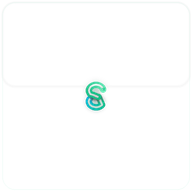
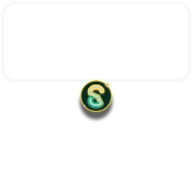
Update 18

Changed region(s): [[0.4062, 0.4062, 0.5938, 0.6562]]

diff --git a/src/components/Logo.jsx b/src/components/Logo.jsx
@@ -13,7 +13,7 @@ export default function Logo({ size = "md", className = "", onClick }) {
       whileHover={{ scale: 1.08 }}
       whileTap={{ scale: 0.92 }}
       onClick={onClick}
-      className={`${containerClasses[size] || "w-10 h-10 rounded-2xl"} shrink-0 relative overflow-hidden shadow-xl shadow-emerald-500/30 group ${onClick ? 'cursor-pointer' : ''} ${className}`}
+      className={`${containerClasses[size] || "w-10 h-10 rounded-2xl"} shrink-0 relative overflow-hidden shadow-xl shadow-amber-500/15 group ${onClick ? 'cursor-pointer' : ''} ${className}`}
       title={onClick ? "Click to refresh" : "Sanjeewa Finance"}
     >
       <svg
@@ -23,60 +23,45 @@ export default function Logo({ size = "md", className = "", onClick }) {
         className="w-full h-full object-cover select-none pointer-events-none transition-transform duration-300 group-hover:scale-105"
       >
         <defs>
-          {/* Background Luxury Dark Emerald & Obsidian Gradient */}
-          <radialGradient id="pro-bg" cx="50%" cy="20%" r="90%">
+          {/* Background luxury obsidian gradient */}
+          <radialGradient id="lux-bg" cx="50%" cy="20%" r="85%">
             <stop offset="0%" stopColor="#064e3b" />
-            <stop offset="45%" stopColor="#022c22" />
-            <stop offset="85%" stopColor="#030c0a" />
-            <stop offset="100%" stopColor="#010605" />
+            <stop offset="50%" stopColor="#022c22" />
+            <stop offset="100%" stopColor="#020806" />
           </radialGradient>
 
-          {/* Outer Bevel Glow */}
-          <linearGradient id="pro-border" x1="0%" y1="0%" x2="100%" y2="100%">
-            <stop offset="0%" stopColor="#34d399" stopOpacity="0.8" />
-            <stop offset="35%" stopColor="#10b981" stopOpacity="0.4" />
-            <stop offset="70%" stopColor="#047857" stopOpacity="0.2" />
-            <stop offset="100%" stopColor="#06b6d4" stopOpacity="0.6" />
+          {/* 24K Gold outer metallic border */}
+          <linearGradient id="lux-gold" x1="0%" y1="0%" x2="100%" y2="100%">
+            <stop offset="0%" stopColor="#fef08a" />
+            <stop offset="35%" stopColor="#f59e0b" />
+            <stop offset="70%" stopColor="#d97706" />
+            <stop offset="100%" stopColor="#fef08a" />
           </linearGradient>
 
-          {/* Top Rim Specular Studio Light */}
-          <linearGradient id="pro-specular" x1="0%" y1="0%" x2="0%" y2="100%">
-            <stop offset="0%" stopColor="#ffffff" stopOpacity="0.35" />
-            <stop offset="50%" stopColor="#ffffff" stopOpacity="0.05" />
-            <stop offset="100%" stopColor="#ffffff" stopOpacity="0" />
-          </linearGradient>
+          {/* Coin face gradient */}
+          <radialGradient id="coin-face" cx="50%" cy="30%" r="70%">
+            <stop offset="0%" stopColor="#064e3b" />
+            <stop offset="65%" stopColor="#022c22" />
+            <stop offset="100%" stopColor="#01140e" />
+          </radialGradient>
 
-          {/* Upper Ribbon Gradient (Mint to Vivid Emerald) */}
-          <linearGradient id="ribbon-top" x1="0%" y1="0%" x2="100%" y2="100%">
-            <stop offset="0%" stopColor="#6ee7b7" />
-            <stop offset="40%" stopColor="#34d399" />
-            <stop offset="80%" stopColor="#10b981" />
+          {/* S Monogram Gold & Emerald gradient */}
+          <linearGradient id="s-lux-grad" x1="0%" y1="0%" x2="100%" y2="100%">
+            <stop offset="0%" stopColor="#fde047" />
+            <stop offset="35%" stopColor="#34d399" />
+            <stop offset="70%" stopColor="#10b981" />
             <stop offset="100%" stopColor="#059669" />
           </linearGradient>
 
-          {/* Lower Ribbon Gradient (Emerald to Electric Cyan) */}
-          <linearGradient id="ribbon-bot" x1="0%" y1="0%" x2="100%" y2="100%">
-            <stop offset="0%" stopColor="#10b981" />
-            <stop offset="50%" stopColor="#14b8a6" />
-            <stop offset="100%" stopColor="#06b6d4" />
+          {/* Specular highlight */}
+          <linearGradient id="lux-spec" x1="0%" y1="0%" x2="0%" y2="100%">
+            <stop offset="0%" stopColor="#ffffff" stopOpacity="0.4" />
+            <stop offset="100%" stopColor="#ffffff" stopOpacity="0" />
           </linearGradient>
 
-          {/* 3D Ribbon Shadow (Ambient Occlusion) */}
-          <linearGradient id="ribbon-shadow" x1="0%" y1="0%" x2="100%" y2="100%">
-            <stop offset="0%" stopColor="#011f18" stopOpacity="0.85" />
-            <stop offset="100%" stopColor="#011f18" stopOpacity="0" />
-          </linearGradient>
-
-          {/* Golden/Mint Shimmer Accent */}
-          <linearGradient id="gold-shimmer" x1="0%" y1="100%" x2="100%" y2="0%">
-            <stop offset="0%" stopColor="#10b981" />
-            <stop offset="50%" stopColor="#6ee7b7" />
-            <stop offset="100%" stopColor="#ffffff" />
-          </linearGradient>
-
-          {/* Neon Glow Filter */}
-          <filter id="pro-glow" x="-20%" y="-20%" width="140%" height="140%">
-            <feGaussianBlur stdDeviation="5" result="blur" />
+          {/* Glow Filter */}
+          <filter id="gold-glow" x="-20%" y="-20%" width="140%" height="140%">
+            <feGaussianBlur stdDeviation="3.5" result="blur" />
             <feMerge>
               <feMergeNode in="blur" />
               <feMergeNode in="SourceGraphic" />
@@ -84,75 +69,60 @@ export default function Logo({ size = "md", className = "", onClick }) {
           </filter>
         </defs>
 
-        {/* 1. Outer 3D Squircle Base */}
-        <rect width="120" height="120" rx="34" fill="url(#pro-bg)" />
-        <rect x="2" y="2" width="116" height="116" rx="32" stroke="url(#pro-border)" strokeWidth="2.5" />
-        <rect x="4" y="4" width="112" height="56" rx="30" fill="url(#pro-specular)" />
+        {/* 1. Luxury Squircle Outer Container */}
+        <rect width="120" height="120" rx="34" fill="url(#lux-bg)" />
+        <rect x="2.5" y="2.5" width="115" height="115" rx="31.5" stroke="url(#lux-gold)" strokeWidth="2.5" strokeOpacity="0.8" />
+        <rect x="4.5" y="4.5" width="111" height="55" rx="29.5" fill="url(#lux-spec)" />
 
-        {/* Ambient Glow behind S */}
-        <g filter="url(#pro-glow)" opacity="0.6">
-          <path
-            d="M78 36 C78 25 68 20 54 20 C38 20 28 28 28 40 C28 53 44 56 58 59 C72 62 80 67 80 78 C80 91 68 98 52 98 C36 98 26 90 26 80"
-            stroke="#10b981"
-            strokeWidth="14"
-            strokeLinecap="round"
-            strokeLinejoin="round"
-          />
-        </g>
+        {/* 2. 3D Minted Medallion in Center */}
+        {/* Medallion Gold Outer Rim */}
+        <circle cx="60" cy="60" r="41" fill="url(#coin-face)" stroke="url(#lux-gold)" strokeWidth="3.5" />
+        {/* Inner Emerald Hairline */}
+        <circle cx="60" cy="60" r="37" stroke="#10b981" strokeWidth="1.2" strokeOpacity="0.85" />
 
-        {/* Layer 2: Main Bottom Ribbon of S (Emerald to Cyan with 3D Bevel) */}
+        {/* 3. Embossed 3D Monogram "S" with Gold/Emerald Sheen */}
+        {/* S Relief Shadow */}
         <path
-          d="M48 57 C64 60 78 65 78 77 C78 88 68 94 54 94 C40 94 30 87 30 79"
-          stroke="url(#ribbon-bot)"
+          d="M74 41 C74 33 66 28 55 28 C41 28 32 35 32 46 C32 58 46 61 60 64 C73 67 80 72 80 82 C80 93 69 99 55 99 C39 99 30 92 30 83"
+          stroke="#000000"
           strokeWidth="13"
           strokeLinecap="round"
           strokeLinejoin="round"
+          strokeOpacity="0.65"
+          transform="translate(0, 3)"
         />
 
-        {/* Layer 3: Overlapping Shadow where Top Fold crosses */}
-        <ellipse cx="50" cy="56" rx="14" ry="7" fill="url(#ribbon-shadow)" transform="rotate(-15 50 56)" />
-
-        {/* Layer 4: Upper Ribbon of S (Electric Mint with Top Specular Peak) */}
+        {/* S Main Sculpted Body */}
         <path
-          d="M78 37 C78 26 68 22 54 22 C40 22 30 29 30 40 C30 52 44 55 58 58"
-          stroke="url(#ribbon-top)"
-          strokeWidth="13"
+          d="M74 41 C74 33 66 28 55 28 C41 28 32 35 32 46 C32 58 46 61 60 64 C73 67 80 72 80 82 C80 93 69 99 55 99 C39 99 30 92 30 83"
+          stroke="url(#s-lux-grad)"
+          strokeWidth="12"
           strokeLinecap="round"
           strokeLinejoin="round"
+          filter="url(#gold-glow)"
         />
 
-        {/* Layer 5: Inner 3D Light Streak along the S flow */}
+        {/* S Specular Spine Highlight */}
         <path
-          d="M72 32 C70 27 63 24 54 24 C43 24 34 29 34 38 C34 47 45 50 56 53"
+          d="M71 39 C71 35 65 31 55 31 C43 31 36 36 36 44 C36 54 48 58 61 61 C72 64 77 69 77 79 C77 88 67 94 55 94 C42 94 34 88 34 83"
           stroke="#ffffff"
           strokeWidth="2.5"
           strokeLinecap="round"
-          strokeOpacity="0.65"
+          strokeLinejoin="round"
+          strokeOpacity="0.85"
         />
 
-        <path
-          d="M52 61 C64 64 74 68 74 76 C74 83 67 89 54 89 C43 89 36 84 34 79"
-          stroke="#a7f3d0"
-          strokeWidth="2.5"
-          strokeLinecap="round"
-          strokeOpacity="0.5"
-        />
-
-        {/* Layer 6: Dynamic Fintech Growth Arrow Crest at top-right */}
-        <g transform="translate(1, -1)">
-          <path
-            d="M74 21 L89 21 C90.5 21 91 22.5 90 23.5 L82 31.5 C81 32.5 79.5 32 79.5 30.5 L79.5 24 L74 24 C72.5 24 72.5 21 74 21 Z"
-            fill="url(#gold-shimmer)"
-            filter="drop-shadow(0 2px 6px rgba(16,185,129,0.7))"
-          />
+        {/* 4. Brilliant 4-Point Diamond Sparkles (✦) */}
+        {/* Top Right Sparkle */}
+        <g transform="translate(88, 30)">
+          <path d="M0 -8 L2 -2 L8 0 L2 2 L0 8 L-2 2 L-8 0 L-2 -2 Z" fill="#ffffff" />
+          <circle cx="0" cy="0" r="1.5" fill="#f59e0b" />
         </g>
 
-        {/* Layer 7: Diamond Shimmer Core at center fold */}
-        <path
-          d="M57 58.5 L60 55 L63 58.5 L60 62 Z"
-          fill="#ffffff"
-          filter="drop-shadow(0 0 4px #34d399)"
-        />
+        {/* Bottom Left Sparkle */}
+        <g transform="translate(32, 90)">
+          <path d="M0 -5 L1.2 -1.2 L5 0 L1.2 1.2 L0 5 L-1.2 1.2 L-5 0 L-1.2 -1.2 Z" fill="#ffffff" />
+        </g>
       </svg>
     </motion.div>
   );

diff --git a/src/components/Settings.jsx b/src/components/Settings.jsx
@@ -1,7 +1,6 @@
 import { useState, useEffect } from "react";
 import { subscribeToCategories, addCategory } from "../services/categories";
-import { PlusCircle, Settings2, ChevronRight, TrendingUp, TrendingDown, KeyRound, Shield, Download, FileText, Layers, LogOut, Trash2 } from "lucide-react";
-import { clearAllTransactions } from "../services/transactions";
+import { PlusCircle, Settings2, ChevronRight, TrendingUp, TrendingDown, KeyRound, Shield, Download, FileText, Layers, LogOut } from "lucide-react";
 import { exportToCSV } from "../utils/export";
 import { motion, AnimatePresence } from "framer-motion";
 import toast from "react-hot-toast";
@@ -22,30 +21,7 @@ export default function Settings({ transactions }) {
   const [exportMonth, setExportMonth] = useState("all");
   const [loading, setLoading] = useState(true);
   const [showCategoryManager, setShowCategoryManager] = useState(false);
-  const [isClearing, setIsClearing] = useState(false);
 
-  const handleClearAllTransactions = async () => {
-    if (!transactions || transactions.length === 0) {
-      toast("No test transactions to delete.", { icon: "ℹ" });
-      return;
-    }
-    const confirmed = window.confirm(
-      `Are you sure you want to delete all ${transactions.length} test transactions?\n\nThis will permanently clear all test entries and reset all balances to Rs. 0 so you can hand the app to your customer.`
-    );
-    if (!confirmed) return;
-
-    setIsClearing(true);
-    const toastId = toast.loading("Clearing all test transactions...");
-    try {
-      const count = await clearAllTransactions();
-      toast.success(`Deleted ${count} test transactions! App is fresh & ready for customer.`, { id: toastId });
-    } catch (err) {
-      console.error("Error clearing transactions:", err);
-      toast.error("Failed to delete transactions. Check internet connection.", { id: toastId });
-    } finally {
-      setIsClearing(false);
-    }
-  };
   
   // PIN Lock states
   const [isPinEnabled, setIsPinEnabled] = useState(false);
@@ -266,29 +242,7 @@ export default function Settings({ transactions }) {
             </div>
           </div>
 
-          {/* Reset / Clear Test Data for Customer */}
-          <div className="flex flex-col sm:flex-row sm:items-center justify-between gap-3 p-3.5 rounded-xl bg-red-500/10 border border-red-500/25">
-            <div>
-              <span className="text-white text-sm font-semibold flex items-center gap-1.5">
-                <Trash2 size={14} className="text-red-400" />
-                <span>Reset Test Data for Customer</span>
-              </span>
-              <span className="text-slate-400 text-xs block mt-0.5">
-                Permanently delete all {transactions?.length || 0} test transactions & reset balances to Rs. 0
-              </span>
-            </div>
-            
-            <motion.button
-              whileHover={{ scale: 1.03 }}
-              whileTap={{ scale: 0.97 }}
-              disabled={isClearing || !transactions || transactions.length === 0}
-              onClick={handleClearAllTransactions}
-              className="bg-red-500/20 hover:bg-red-500/30 text-red-300 border border-red-500/40 text-xs font-bold px-3.5 py-2 rounded-xl transition-all flex items-center gap-1.5 shadow-sm disabled:opacity-40 disabled:cursor-not-allowed shrink-0 cursor-pointer"
-            >
-              <Trash2 size={13} className={isClearing ? "animate-spin" : ""} />
-              <span>{isClearing ? "Clearing..." : "Clear Test Data"}</span>
-            </motion.button>
-          </div>
+
         </div>
       </div>
 
